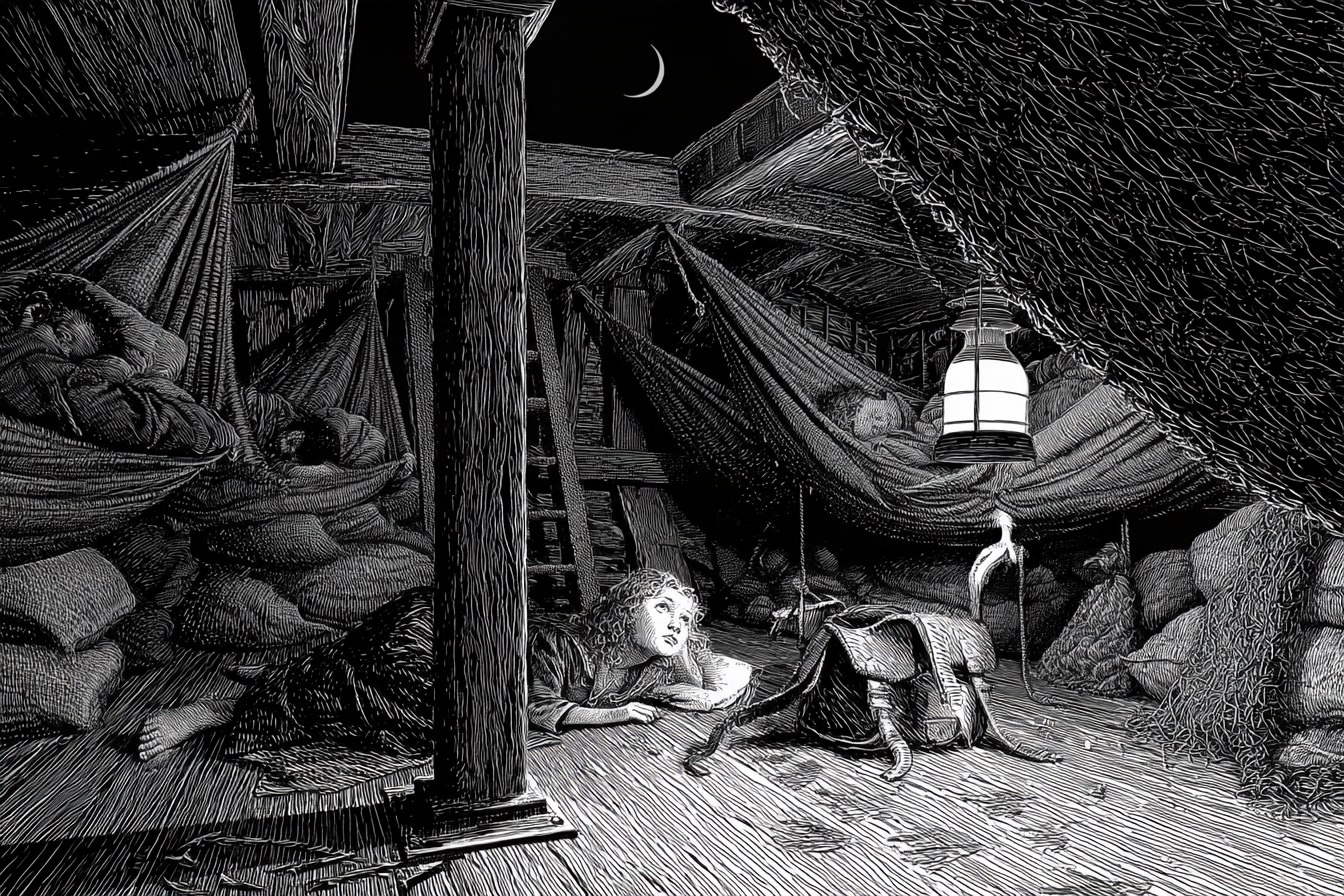
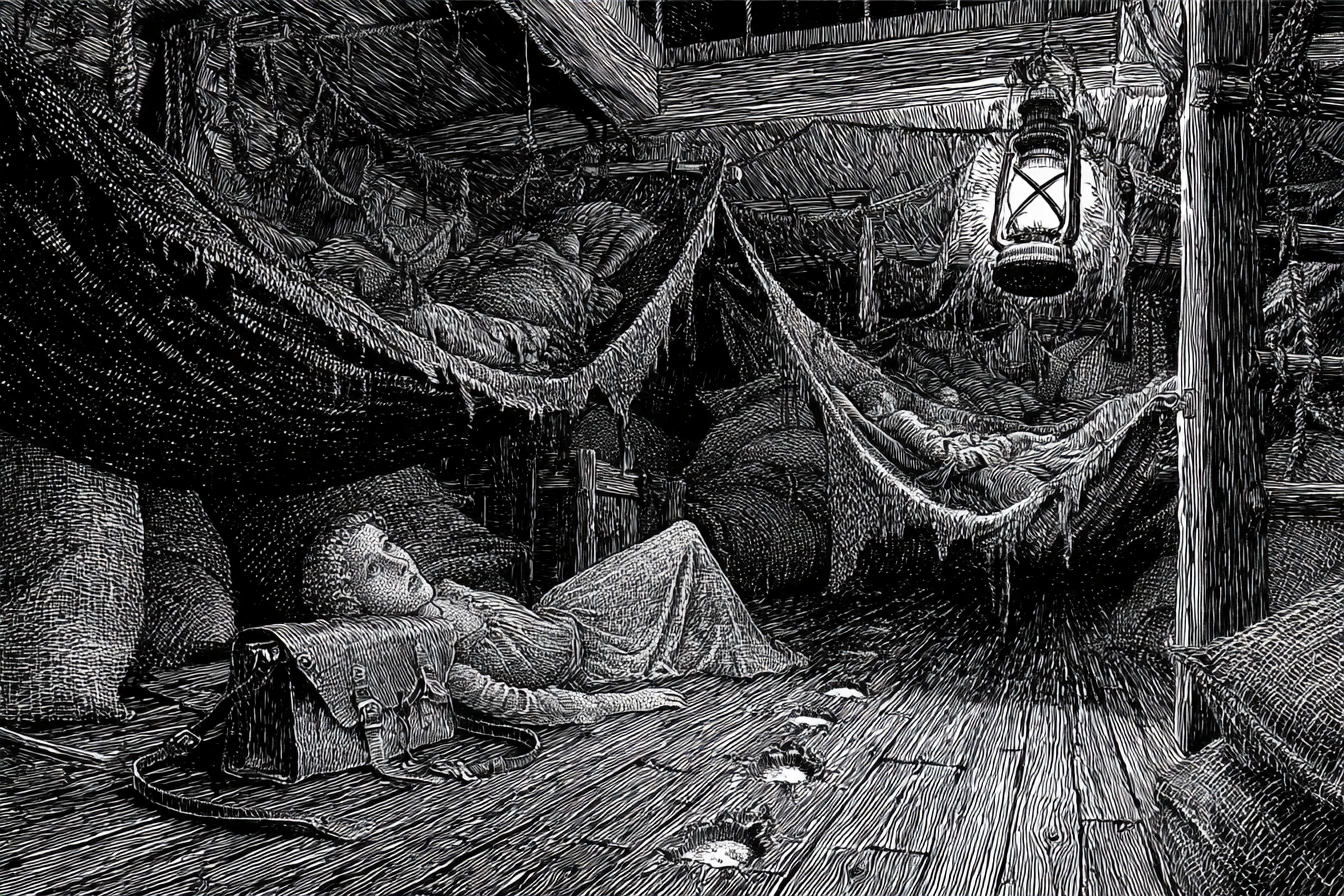
vault auto-sync: 15 files changed
Affected files:
10-Adventures/SP-GQ00 — The Shadow on the Quag/SP-GQ00 — Art Brief.md
10-Adventures/SP-GQ00 — The Shadow on the Quag/SP-GQ00 — Prologue — The Crossing.md
30-NPCs/Agnes Feldhaus.md
40-Locations/The Isle in the Grey.md
65-Bestiary/Shadow on the Quag/Fog-Drowned.md
99-Assets/SP-SQ/handouts/SP-GQ00 — Dorakaa Silver.png
99-Assets/SP-SQ/handouts/SP-GQ00 — Letter-Case.png
99-Assets/SP-SQ/plates/Fog-Drowned.png
99-Assets/SP-SQ/portraits/SP-GQ00 Portrait - Agnes Feldhaus.png
99-Assets/SP-SQ/portraits/SP-GQ00 Portrait - Machteld Vreeswijk.png
99-Assets/SP-SQ/portraits/SP-GQ00 Portrait - Mother Gunde.png
99-Assets/SP-SQ/scenes/SP-GQ00 — S2 Casting Off.png
99-Assets/SP-SQ/scenes/SP-GQ00 — S3 First Night.png
99-Assets/SP-SQ/scenes/SP-GQ00 — S4 Into the Grey.png
99-Assets/SP-SQ/scenes/SP-GQ00 — S5 The Drowned.png

diff --git a/10-Adventures/SP-GQ00 — The Shadow on the Quag/SP-GQ00 — Prologue — The Crossing.md b/10-Adventures/SP-GQ00 — The Shadow on the Quag/SP-GQ00 — Prologue — The Crossing.md
@@ -80,9 +80,15 @@ None of these are essential to finish the prologue; each one pays off in GQ1–G
 ### Scene 1: Factor Feldhaus (15 min)
 *Purpose:* the job, the letter, Liesl, the passage.
 
+> [!art]+ Scene 1 — The Post-House
+> ![[SP-GQ00 — S1 Post-House.png|600]]
+
 > *The University's post-house is two rooms over a chandler's on the Schwartzenbruin waterfront, smelling of tar and sealing-wax. A grey-haired woman with spectacles on a ribbon stacks oilcloth bundles on the counter. Beside the stove a thin girl in a borrowed cloak sits on a sea-chest, reading a pamphlet she has clearly read before.*
 
 **Factor [[Agnes Feldhaus]]** hands over the Field Station's post: two oilcloth bundles of letters and a **letter-case** of black leather, locked, with the Chancellor's seal on the strap. *"That one goes into Professor Vogelsang's hand and no other. Not the Registrar's. Not the Warden's. His."* She gives the key to nobody; Vogelsang has the other.
+
+> [!art]+ Prop — the Chancellor's letter-case
+> ![[SP-GQ00 — Letter-Case.png|300]]
 
 She also hands over **[[Liesl Amsel]]**: *"New Probationer. She's to be on the Archive's labor levy. See she gets there."*
 
@@ -103,6 +109,9 @@ The only ship going north this week is the *Graue Hecht*. Feldhaus has already a
 
 ### Scene 2: Casting Off (Harvester 19, noon) (15 min)
 *Purpose:* meet the ship, Brandmeier, Fesch and Ruder.
+
+> [!art]+ Scene 2 — Casting Off
+> ![[SP-GQ00 — S2 Casting Off.png|600]]
 
 > *The* Graue Hecht *is a broad-bellied cog with a grey-painted pike's head on her stem post and salt sacks stacked to the gunwales. A big red-faced man in a fur-trimmed coat booms a welcome from the quarterdeck and waves away your purse before you can open it. At his elbow a thin clerk in black writes in a ledger and does not look up.*
 
@@ -135,10 +144,16 @@ The same ship and the same maps as GQ1: the four *Hecht* deck maps in `99-Assets
 **H2. THE BERTHS AND THE HOLD.** The students and Liesl sleep in the forward berths, above the salt sacks and copper ingots in the hold. One hatch to the deck. Dark at night except for a shuttered lantern.
 **H3. THE CLERK'S CABIN.** A cupboard of a room aft: a cot, a writing slope, a ledger in a careful hand, a birdcage with no bird, and a smell of brimstone and cloves. Fesch is never far from it. **Treasure:** the ledger (Perrender in a Ket schoolroom hand: Lecturer Dolz could identify it in GQ1); a pot of sugar.
 **H4. THE STERN CABIN.** Brandmeier's: a cot, a sea-chest, a strongbox bolted to the deck. **Treasure:** 40 marks in Brandmeier's own coin and, wrapped in a stocking, **six silver coins stamped with a skull** (Dorakaa silver; Religion or History DC 14 to know Iuz's mint; Brandmeier doesn't know where they came from). Opening the strongbox without leave is theft.
+
+> [!art]+ Prop — Dorakaa silver
+> ![[SP-GQ00 — Dorakaa Silver.png|300]]
 **H5. THE GALLEY.** A brazier in a sand box forward; the cook, [[Mother Gunde]], a Rhennee widow who knows the fog.
 
 ### Scene 3: The First Night (Harvester 19–20) (30 min)
 *Purpose:* Snick's first and second tries; Liesl's talent; legwork aboard.
+
+> [!art]+ Scene 3 — The First Night
+> ![[SP-GQ00 — S3 First Night.png|600]]
 
 > *Night on the lake is black water and the creak of the yard. The salt in the hold smells of the sea it came from. Somewhere aft the clerk's candle burns late behind his curtain. Liesl lies awake with her eyes open, listening to something.*
 
@@ -173,6 +188,9 @@ If the students corner Snick (for example by covering the hatch and swinging lan
 ### Scene 4: Into the Fog (Harvester 20, night) (30 min)
 *Purpose:* the set piece. Navigation, Liesl's talent, the boarding.
 
+> [!art]+ Scene 4 — Into the Grey
+> ![[SP-GQ00 — S4 Into the Grey.png|600]]
+
 > *The wind dies at dusk and does not come back. The* Hecht *drifts on a slow black current, and ahead a wall of fog stands on the water, pale under no moon. Ruder stops whittling. Mother Gunde lights two lamps and holds one in each hand.*
 
 The current carries the ship into the grey. **Navigating out** is a group effort: **3 successes before 3 failures**. Each character may try one approach per round; describe a round as about ten minutes of drifting.
@@ -187,10 +205,16 @@ The current carries the ship into the grey. **Navigating out** is a group effort
 
 **Each failure:** the drowned come closer. The first failure triggers the boarding (Scene 5) if it hasn't started; later failures add one **fog-drowned** to the deck.
 **Three failures:** the *Hecht* grounds softly on a fog-bound isle. Through the grey the students see a timber lodge with a smoking chimney and an iceskimmer drawn up under a tarpaulin (P4). The ship floats free at dawn. Vesharan, at the rail, sees it too, and remembers it (this is the lodge of GQ5).
+
+> [!art]+ Failure branch — The Isle in the Grey
+> ![[SP-GQ00 — S4b Isle in the Grey.png|600]]
 **Three successes:** the *Hecht* drifts out of the grey before midnight, with the drowned left behind on the water.
 
 ### Scene 5: The Drowned Come Aboard (Encounter, Medium)
 *Purpose:* the fight, and Snick's real try for the letter.
+
+> [!art]+ Scene 5 — The Drowned Come Aboard
+> ![[SP-GQ00 — S5 The Drowned.png|600]]
 
 > *Something knocks on the hull. Then a hand comes over the rail, swollen and grey, with a rope still knotted round the wrist. A drowned bargeman pulls himself up out of the fog, water running from his mouth, and behind him another face rises out of the lake.*
 

diff --git a/10-Adventures/SP-GQ00 — The Shadow on the Quag/SP-GQ00 — Art Brief.md b/10-Adventures/SP-GQ00 — The Shadow on the Quag/SP-GQ00 — Art Brief.md
@@ -132,8 +132,8 @@ six thick silver coins spilling out of a rolled wool stocking, each coin stamped
 ## Checklist
 - [x] P1 Cover (2026-11-13: `cover/SP-GQ00 — Cover.png`; use as the `--sref` for the rest of the set)
 - [x] P2 Arc opener (2026-11-13; at the head of Part One)
-- [ ] P3 Post-House · [ ] P4 Casting Off · [ ] P5 First Night · [ ] P6 Into the Grey · [ ] P7 The Drowned · [ ] P8 Isle in the Grey
-- [ ] P9 Agnes Feldhaus · [ ] P10 Mother Gunde · [ ] P14 Machteld Vreeswijk
-- [ ] P11 Fog-Drowned plate · [ ] P12 Letter-case · [ ] P13 Dorakaa silver
+- [x] P3 Post-House (keep; upscale) · [ ] P4 Casting Off (re-roll: Fesch must be a thin *young* clerk; check Brandmeier vs GQ1 portrait) · [ ] P5 First Night (re-roll: Liesl 15, enclosed below deck, strap lifting by itself) · [ ] P6 Into the Grey (re-roll: a lamp in *each* hand; cog not longship; lighter) · [x] P7 The Drowned (fix: replace the real-world cross with a sun disc) · [x] P8 Isle in the Grey (keep; upscale)
+- [ ] P9 Agnes Feldhaus (re-roll: drawn with pointed elf ears; add "human, rounded ears") · [x] P10 Mother Gunde · [x] P14 Machteld Vreeswijk
+- [x] P11 Fog-Drowned plate · [x] P12 Letter-case · [x] P13 Dorakaa silver
 - [ ] Density check (25–45% solid black) on every scene before upscaling
 - [x] Cover plaque: `99-Assets/_Covers/Cover — The Shadow on the Quag.png` (2026-11-13)

diff --git a/40-Locations/The Isle in the Grey.md b/40-Locations/The Isle in the Grey.md
@@ -7,6 +7,9 @@ tags: [location, lake-quag, fog, shadow-on-the-quag]
 
 # The Isle in the Grey
 
+> [!art]+ The Isle in the Grey
+> ![[SP-GQ00 — S4b Isle in the Grey.png|600]]
+
 A low, reed-fringed island inside the fog-bank at the heart of Lake Quag. Nobody fishes it. A timber lodge stands among stunted alders; in winter someone keeps a fire there. The canon grey fogs of the Quag, where ships go missing, hide it from the shore.
 
 ## Notable Features

diff --git a/30-NPCs/Agnes Feldhaus.md b/30-NPCs/Agnes Feldhaus.md
@@ -13,6 +13,7 @@ aliases: [Feldhaus, Factor Feldhaus]
 > The University's factor in Schwartzenbruin: she receives the City's post for the Ritterstadt Field Station and sends it north on whatever ship is going.
 
 ## Appearance
+![[SP-GQ00 Portrait - Agnes Feldhaus.png|300]]
 Grey-haired, sixty, spectacles on a ribbon, ink and sealing-wax on her fingers.
 
 ## Personality & Mannerisms

diff --git a/65-Bestiary/Shadow on the Quag/Fog-Drowned.md b/65-Bestiary/Shadow on the Quag/Fog-Drowned.md
@@ -18,7 +18,7 @@ credit: ""
 base_block: "none"
 source_adventures: ["SP-GQ05"]
 tags: [bestiary, statblock, 2014-5e, greyhawk, shadow-on-the-quag, undead, lake-quag]
-art_plate: todo
+art_plate: "99-Assets/SP-SQ/plates/Fog-Drowned.png"
 portrait: todo
 token: todo
 ---
